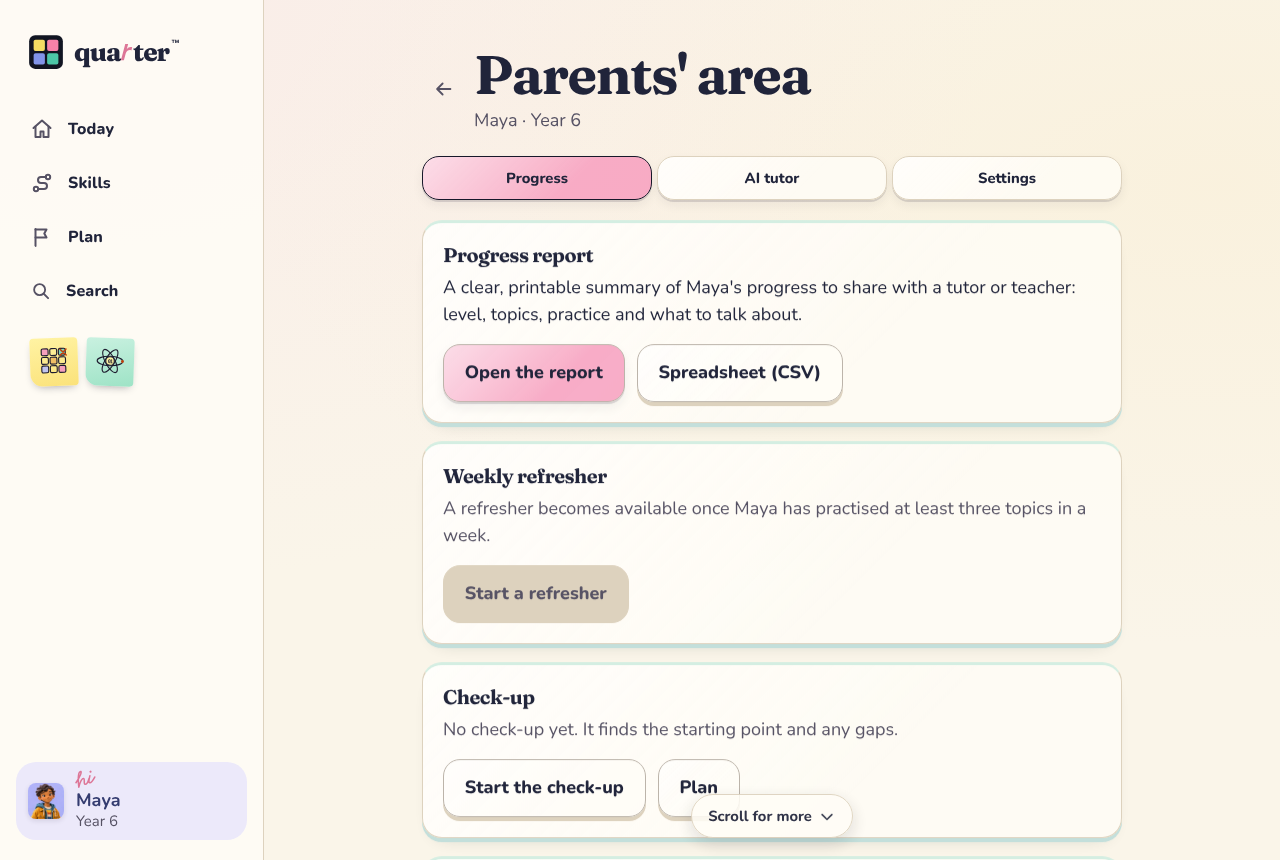
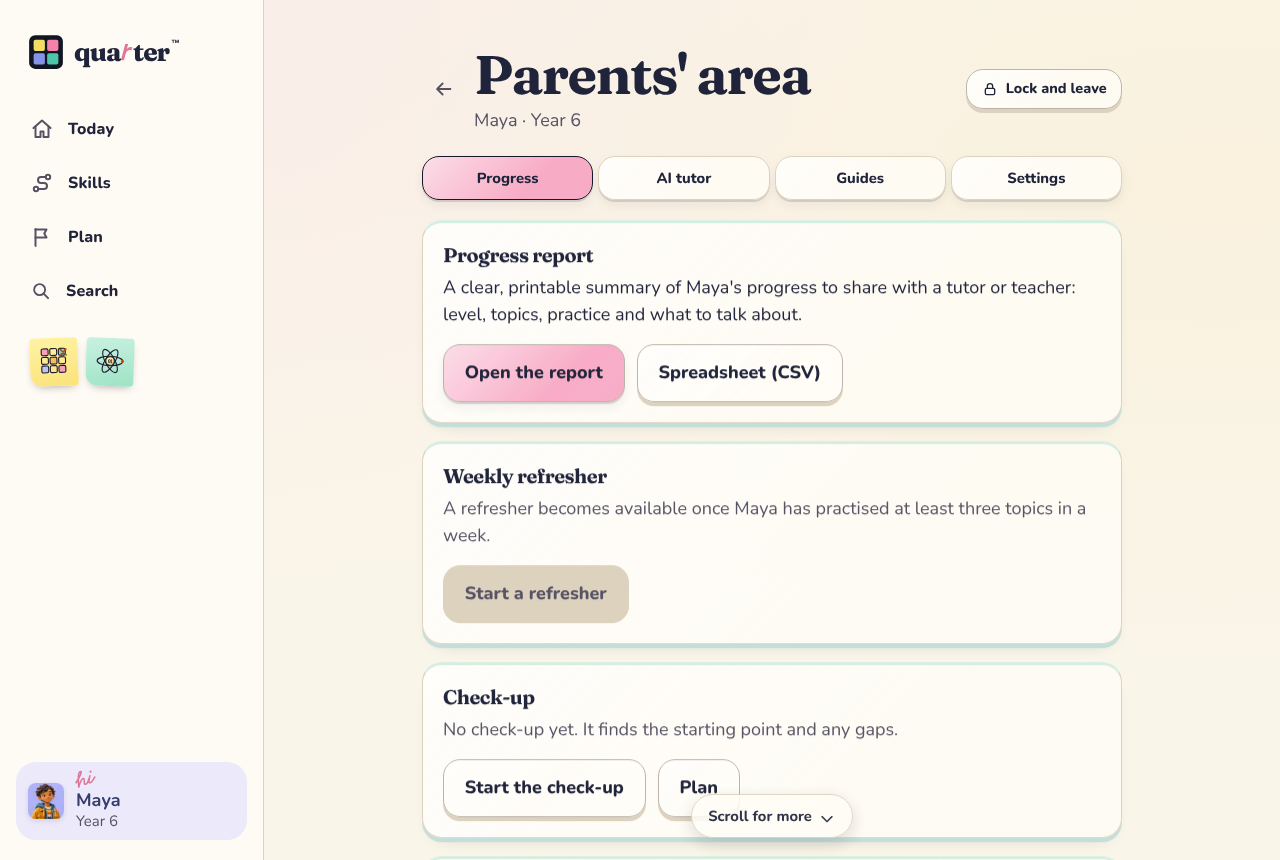
Grown-ups' area: stays open while in use, locks after five idle minutes, and has a Lock and leave button
Claude-Session: https://claude.ai/code/session_01Qdz8m3LRPahDuy21jw456m

diff --git a/maths/src/ui/app.tsx b/maths/src/ui/app.tsx
@@ -29,7 +29,7 @@ import { applySkin, applyTheme, getTheme, resolveSkin } from "./skin";
 import { Shell } from "./shell";
 import { primaryNav, tabHref, tabRoute, type Tab } from "./navigation";
 import { Me } from "./me";
-import { ParentGate, lockParents, parentUnlocked } from "./gate";
+import { ParentGate, keepParentsOpen, lockParents, parentUnlocked } from "./gate";
 import type { AccountBridge } from "./account-context";
 import type { RemoteLearner } from "../account/sync";
 
@@ -88,7 +88,17 @@ export function App({ initialStore, bridge }: { initialStore?: Store; bridge?: A
   };
 
   // the grown-ups' area locks again as soon as someone moves on from it, so the next person on the device needs the PIN
-  useEffect(() => { if (!["parent", "progress-report", "my-data", "booklet", "concept"].includes(route.name)) lockParents(); }, [route.name]);
+  const inParents = ["parent", "progress-report", "my-data", "booklet", "concept"].includes(route.name);
+  useEffect(() => { if (!inParents) lockParents(); }, [route.name]);
+  // while someone is using the area it stays open; after five minutes of nothing it closes and goes back to Me
+  useEffect(() => {
+    if (!inParents) return;
+    const touch = () => keepParentsOpen();
+    const events = ["pointerdown", "keydown", "scroll", "touchstart"] as const;
+    events.forEach((e) => addEventListener(e, touch, { passive: true, capture: true }));
+    const check = setInterval(() => { if (!parentUnlocked()) setRoute({ name: "me" }); }, 10_000);
+    return () => { events.forEach((e) => removeEventListener(e, touch, { capture: true })); clearInterval(check); };
+  }, [inParents]);
 
   useEffect(() => {
     if (showWelcome) return;

diff --git a/maths/src/ui/gate.tsx b/maths/src/ui/gate.tsx
@@ -3,12 +3,18 @@ import { useAccount } from "./account-context";
 import { applyKey, Keypad, useDigitKeys } from "./answer-input";
 import { checkPin, hasPin, pinProblem, setPin } from "./pin";
 
+/** The grown-ups' area stays open while someone is using it, and locks after this long with nothing touched. */
+export const PARENT_IDLE_MS = 5 * 60_000;
 let unlockedUntil = 0;
-/** Unlocked for ten minutes after the sum and PIN. Held in memory only. */
+/** Unlocked after the sum and PIN, and kept open by activity. Held in memory only. */
 export const parentUnlocked = () => Date.now() < unlockedUntil;
 /** Locks the grown-ups' area again, for example when a child moves on from it. */
 export const lockParents = () => { unlockedUntil = 0; };
-const unlock = () => { unlockedUntil = Date.now() + 10 * 60_000; };
+/** Called on any tap, key or scroll in the grown-ups' area: pushes the lock back, but never reopens a locked area. */
+export const keepParentsOpen = () => { if (parentUnlocked()) unlockedUntil = Date.now() + PARENT_IDLE_MS; };
+/** Opens the area after the sum and PIN have been passed. */
+export const unlockParents = () => { unlockedUntil = Date.now() + PARENT_IDLE_MS; };
+const unlock = unlockParents;
 const digitsOnly = (t: string) => t.replace(/[^\d]/g, "");
 
 /** A PIN field with the on-screen keypad. Shows dots, never the digits. */

diff --git a/maths/src/ui/gate.test.ts b/maths/src/ui/gate.test.ts
@@ -1,0 +1,22 @@
+import { afterEach, beforeEach, describe, expect, it, vi } from "vitest";
+import { PARENT_IDLE_MS, keepParentsOpen, lockParents, parentUnlocked, unlockParents } from "./gate";
+
+describe("the grown-ups' area lock", () => {
+  beforeEach(() => { vi.useFakeTimers(); lockParents(); });
+  afterEach(() => vi.useRealTimers());
+
+  it("never reopens by itself: activity can't unlock a locked area", () => {
+    keepParentsOpen();
+    expect(parentUnlocked()).toBe(false);
+  });
+  it("stays open while it is being used, and locks after five idle minutes", () => {
+    unlockParents();
+    vi.advanceTimersByTime(4 * 60_000); expect(parentUnlocked()).toBe(true);
+    keepParentsOpen();                                  // a tap at 4 minutes
+    vi.advanceTimersByTime(4 * 60_000); expect(parentUnlocked()).toBe(true);
+    keepParentsOpen();
+    vi.advanceTimersByTime(PARENT_IDLE_MS + 1000); expect(parentUnlocked()).toBe(false);
+  });
+  it("locks at once when asked", () => { unlockParents(); lockParents(); expect(parentUnlocked()).toBe(false); });
+  it("has five minutes of idle time", () => expect(PARENT_IDLE_MS).toBe(5 * 60_000));
+});

diff --git a/maths/src/guides/content.ts b/maths/src/guides/content.ts
@@ -64,7 +64,7 @@ export const PARENT_GUIDE: GuideSection[] = [
   },
   {
     id: "gate", title: "The grown-ups' area and your PIN",
-    text: ["Your child can't wander in by accident: it asks a multiplication sum, then your own 6 or 8 digit PIN. It locks again as soon as you leave it. Adding a learner or changing the school year asks the same way."],
+    text: ["Your child can't wander in by accident: it asks a multiplication sum, then your own 6 or 8 digit PIN. It stays open while you're using it, and locks again after five minutes of nothing being touched, or as soon as you tap Lock and leave. Adding a learner or changing the school year asks the same way. Your child stays signed in to the main app throughout, so they can carry on with their work."],
     tips: [
       "Forgotten your PIN? Sign out and sign in again to reset it.",
       "The lock is there to stop accidental taps, not to defeat a determined teenager. On a shared computer, use separate browser profiles.",

diff --git a/maths/src/ui/parent.tsx b/maths/src/ui/parent.tsx
@@ -18,6 +18,7 @@ import { ParentAssistant } from "./assistant";
 import { conceptsForSkill } from "../concepts";
 import { FeedbackSection } from "./feedback";
 import { Guides } from "./guides";
+import { lockParents } from "./gate";
 import { PinSettings } from "./pin-settings";
 import { SkillFilterControls, filterSkills, type SkillFilters } from "./skill-filters";
 
@@ -59,6 +60,7 @@ export function Parent() {
       <header class="parent-head">
         <button class="icon-btn" onClick={() => go({ name: "me" })} aria-label="Back to Me"><Icon name="back" size={22} /></button>
         <div><h1>Parents' area</h1><p class="muted">{profile.name} · Year {profile.year}</p></div>
+        <button class="btn small lock-parents" onClick={() => { lockParents(); go({ name: "me" }); }} data-testid="lock-parents"><Icon name="lock" size={16} /> Lock and leave</button>
       </header>
 
       {worries.length > 0 && (

diff --git a/maths/scripts/grownup-e2e.ts b/maths/scripts/grownup-e2e.ts
@@ -41,6 +41,12 @@ await solveSum(); await pin();
 ok("with the sum and PIN, the Parents' area opens", /Parents' area/.test(await page.locator("body").innerText()) && !(await gateUp()));
 
 await page.screenshot({ path: `${process.env.OUT ?? "."}/gu-after-pin.png` });
+// 2a. the Lock and leave button locks it at once and goes back to Me
+await page.getByTestId("lock-parents").click(); await page.waitForTimeout(500);
+ok("Lock and leave goes back to Me", /Choose your avatar|Who.s learning/i.test(await page.locator("body").innerText()));
+await page.getByTestId("open-parents").click(); await page.waitForTimeout(300);
+ok("and the area is locked again", await gateUp());
+await solveSum(); await pin();
 // 2. leaving it locks it again
 await page.locator(`button[aria-label="Back to Me"]`).click(); await page.waitForTimeout(500);
 await page.getByTestId("open-parents").click(); await page.waitForTimeout(300);

diff --git a/maths/src/styles.css b/maths/src/styles.css
@@ -3188,3 +3188,4 @@ label.inline:has(#tutor-reveal) { display: grid; gap: 6px; }
 .guide-block[open] summary { border-bottom: 1px solid var(--line); margin-bottom: 8px; }
 .guide-block ul, .guide-block ol { padding-left: 1.3rem; display: grid; gap: .4rem; margin: .5rem 0 .8rem; }
 .guide-block p { margin: .5rem 0; }
+.parent-head .lock-parents { margin-left: auto; white-space: nowrap; }

diff --git a/maths/docs/GROWN_UP_CONTROLS_REVIEW.md b/maths/docs/GROWN_UP_CONTROLS_REVIEW.md
@@ -41,5 +41,5 @@ A multiplication a young child can't do quickly, then the parent's own 6 or 8 di
 ## Still to decide
 
 - Name the AI provider and the data-collection setting in the privacy notice, and record the processing agreement.
-- Decide whether the ten minute window should be shorter, or end after a period of inactivity, not only on leaving.
+- Decided: the area stays open while it is being used and locks after five minutes of inactivity (and still on leaving). A "Lock and leave" button in the area locks it at once and goes back to Me, without signing the child out of the app.
 - Add this review's points to the DPIA, with the fixes above under "measures taken".
